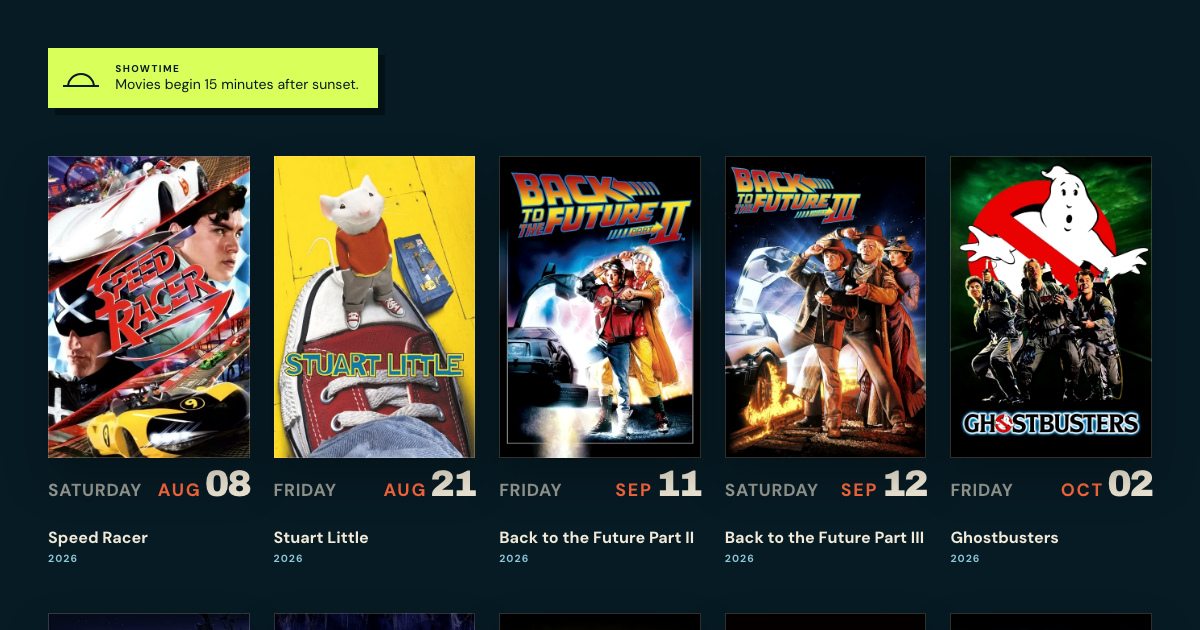
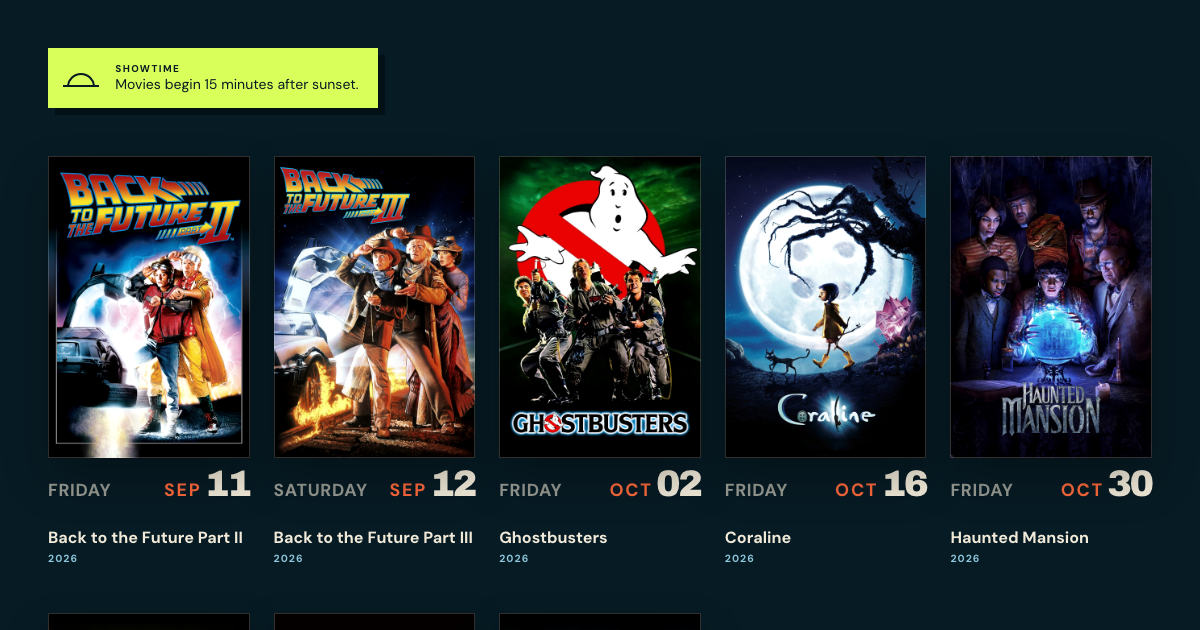
update schedule

diff --git a/docs-src/schedule.js b/docs-src/schedule.js
@@ -1,18 +1,5 @@
 export default [
   {
-    date: '2026-08-08',
-    title: 'Speed Racer',
-    tmdbId: '7459-speed-racer',
-    poster: 'fxRIpx9Op9h71q3tvuabx4GryyP.jpg',
-    postponed: false,
-  },
-  {
-    date: '2026-08-21',
-    title: 'Stuart Little',
-    tmdbId: '10137-stuart-little',
-    poster: '362lcwTJlNyAhitTlp2UraECISR.jpg',
-  },
-  {
     date: '2026-09-11',
     title: 'Back to the Future Part II',
     tmdbId: '165-back-to-the-future-part-ii',
